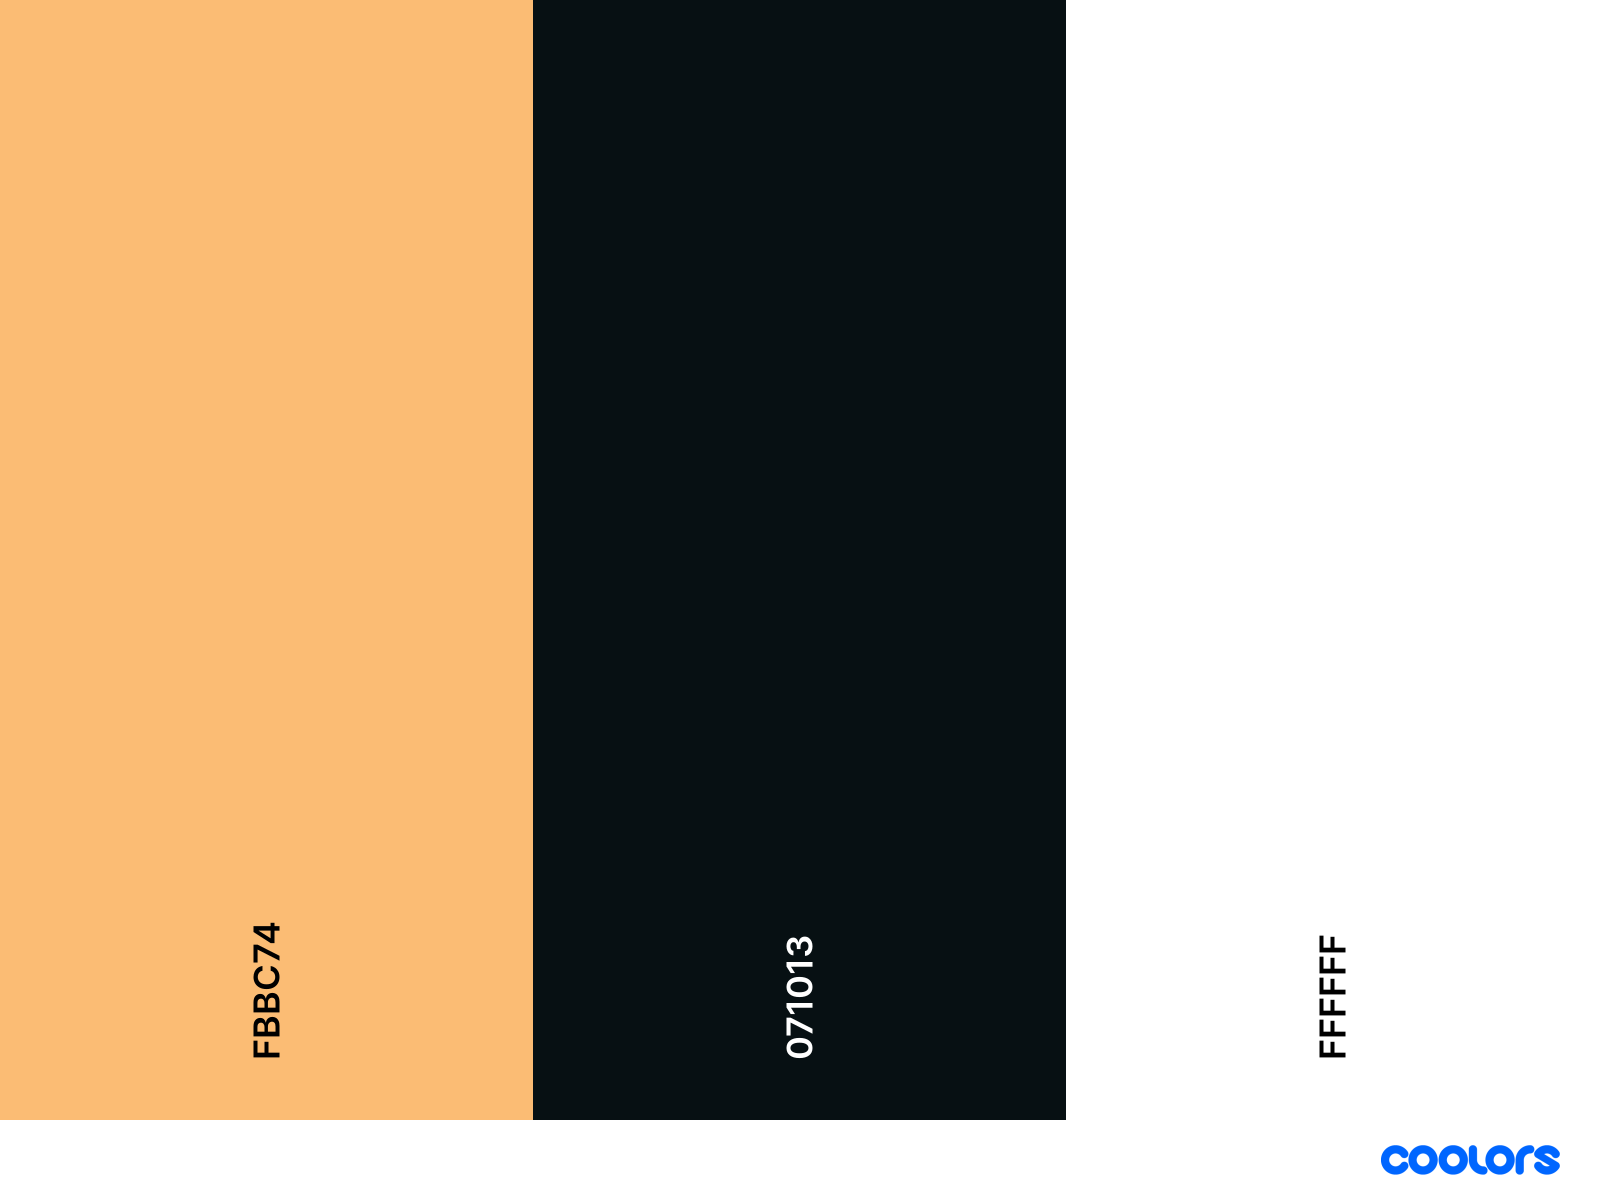
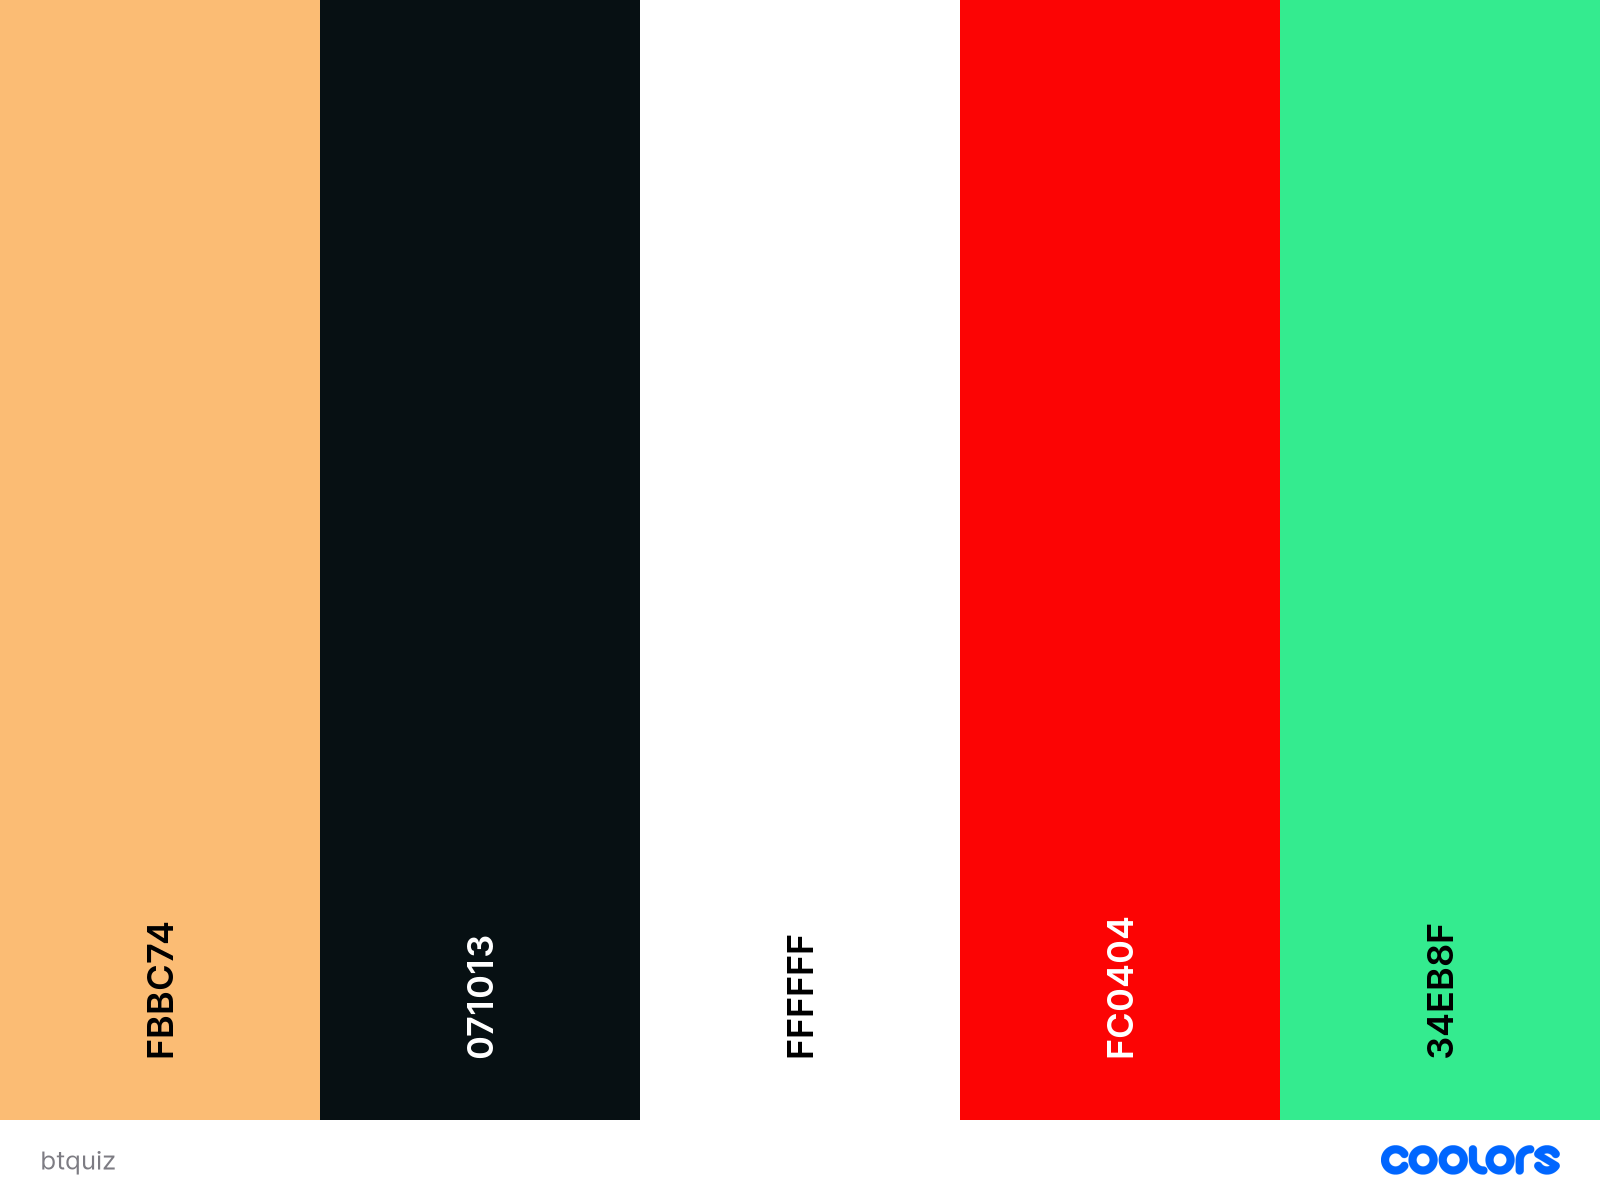
Add new pallete including all colors applied through the webpage

diff --git a/assets/css/style.css b/assets/css/style.css
@@ -17,7 +17,7 @@ body {
     top: 0;
     left: 0;
     z-index: -1;
-    background-color: black;
+    background-color: #071013;
 }
 
 .navbar-brand
@@ -112,9 +112,9 @@ body {
 
 .username-section h2 {
   font-size: 1.7em;
-  color: black;
+  color: #071013;
   font-weight: 500;
-  border-bottom: 1px solid black;
+  border-bottom: 1px solid #071013;
   padding-bottom: 30px;
   padding-top: 30px;
 

diff --git a/README.md b/README.md
@@ -59,11 +59,11 @@ The Fonts used are [Open Sans](https://fonts.google.com/specimen/Open+Sans) and 
 [Back to contents](#contents)
 
 ### **Colours**
-The idea behind the main colours was to use the match with the colours on the background image. Light orange to contrast and promote ease reading in contrast with white and black.
+The idea behind the main colours was to use the match with the colours on the background image. Light orange to contrast and promote ease reading in contrast with white and black. The colors red and green appears during the game to identify which questions selected are correct or wrong.
 
-![Colour Palette](documentation/palette.png)
+![Colour Palette](assets/images/palette.png)
 
-Check format:[Colour Palette](https://coolors.co/f2ab69-772f1a)
+Check format:[Colour Palette](https://coolors.co/fbbc74-071013-ffffff-fc0404-34eb8f)
 
 [Back to contents](#contents)
 
